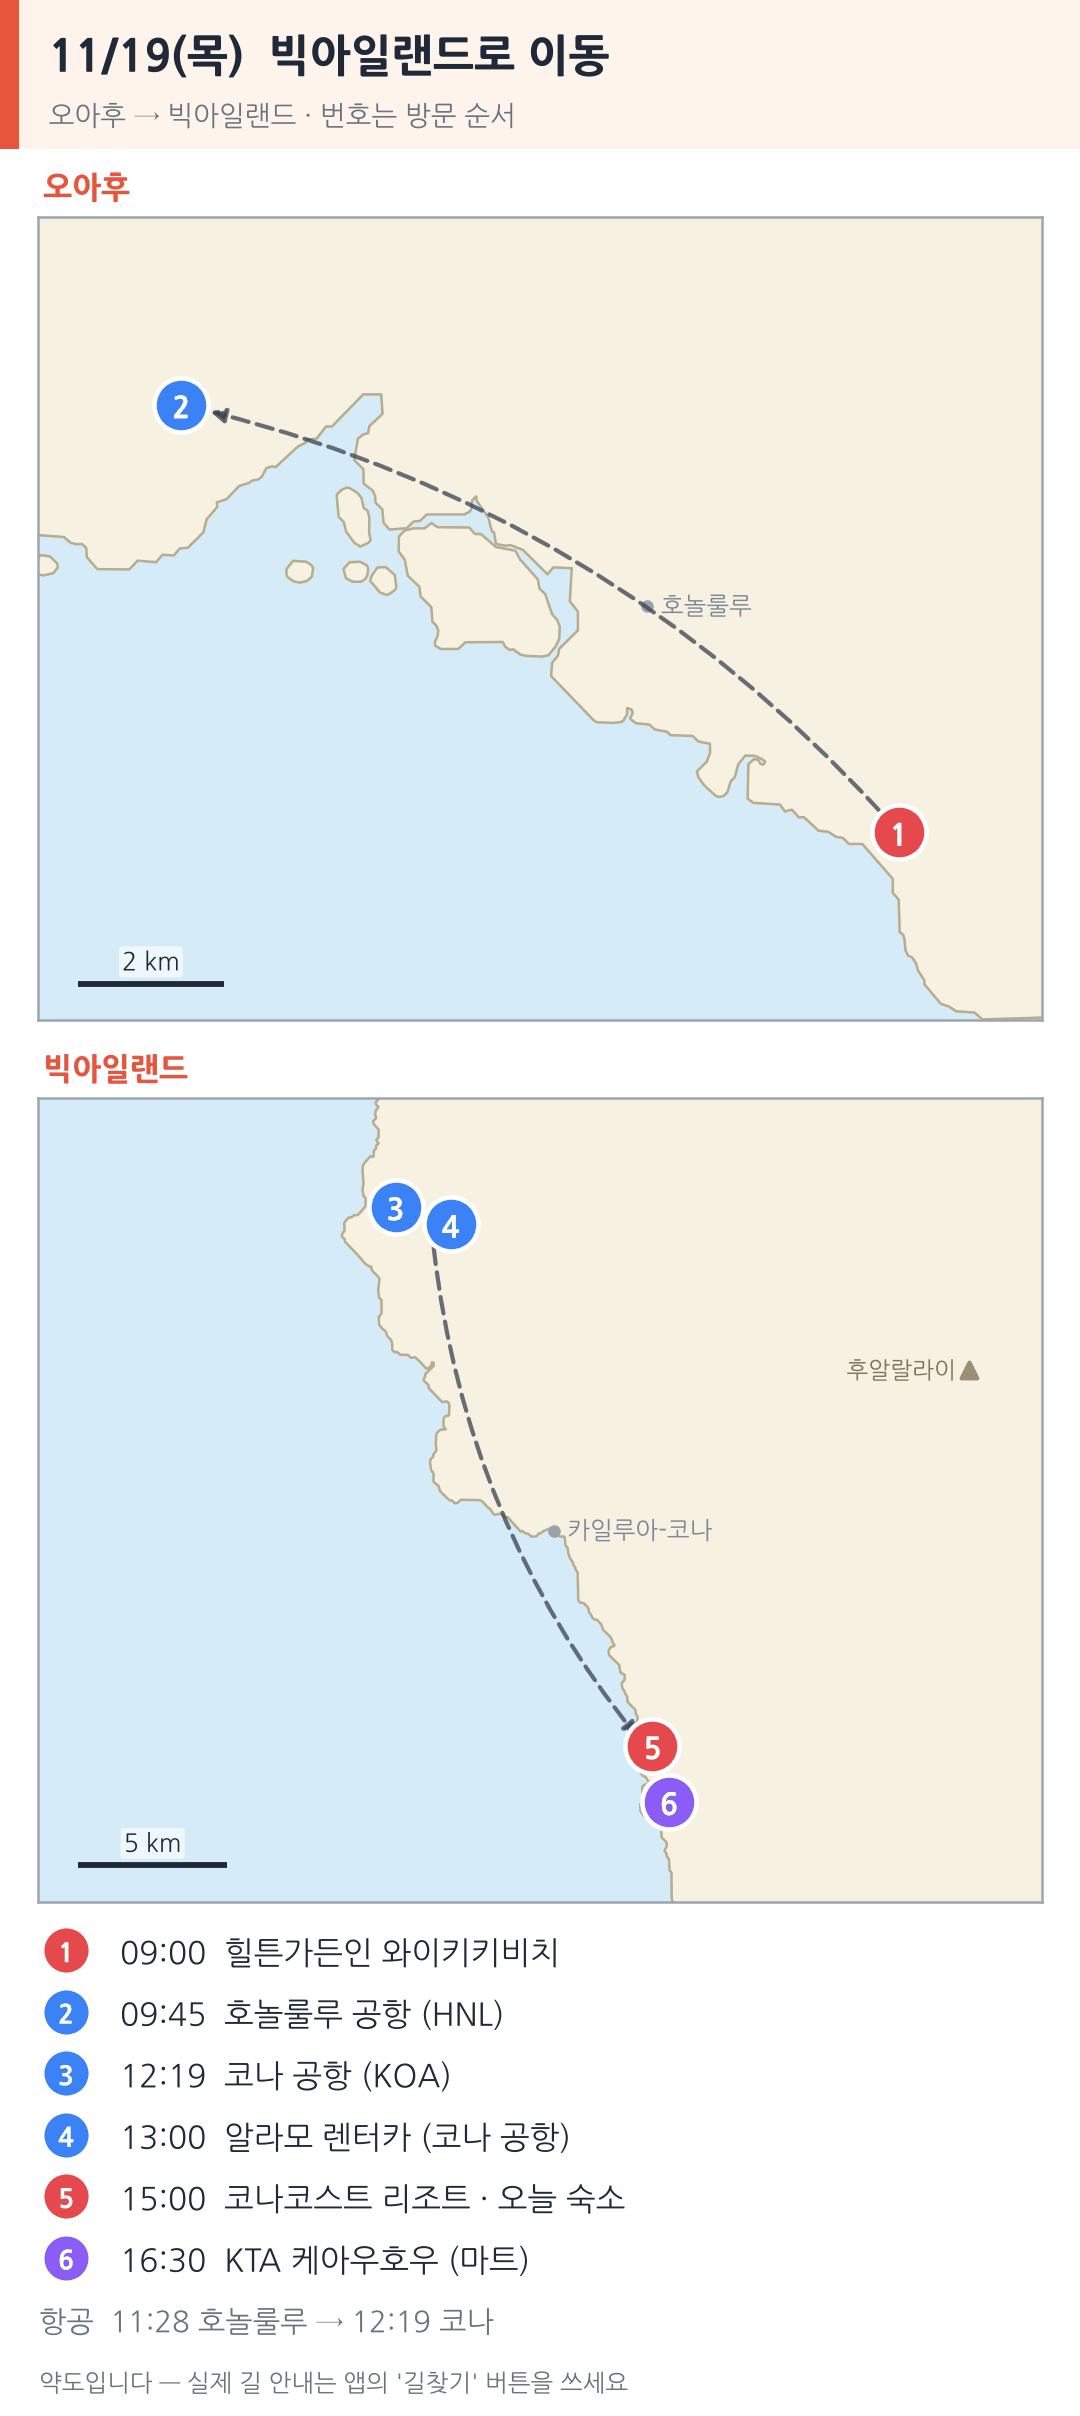
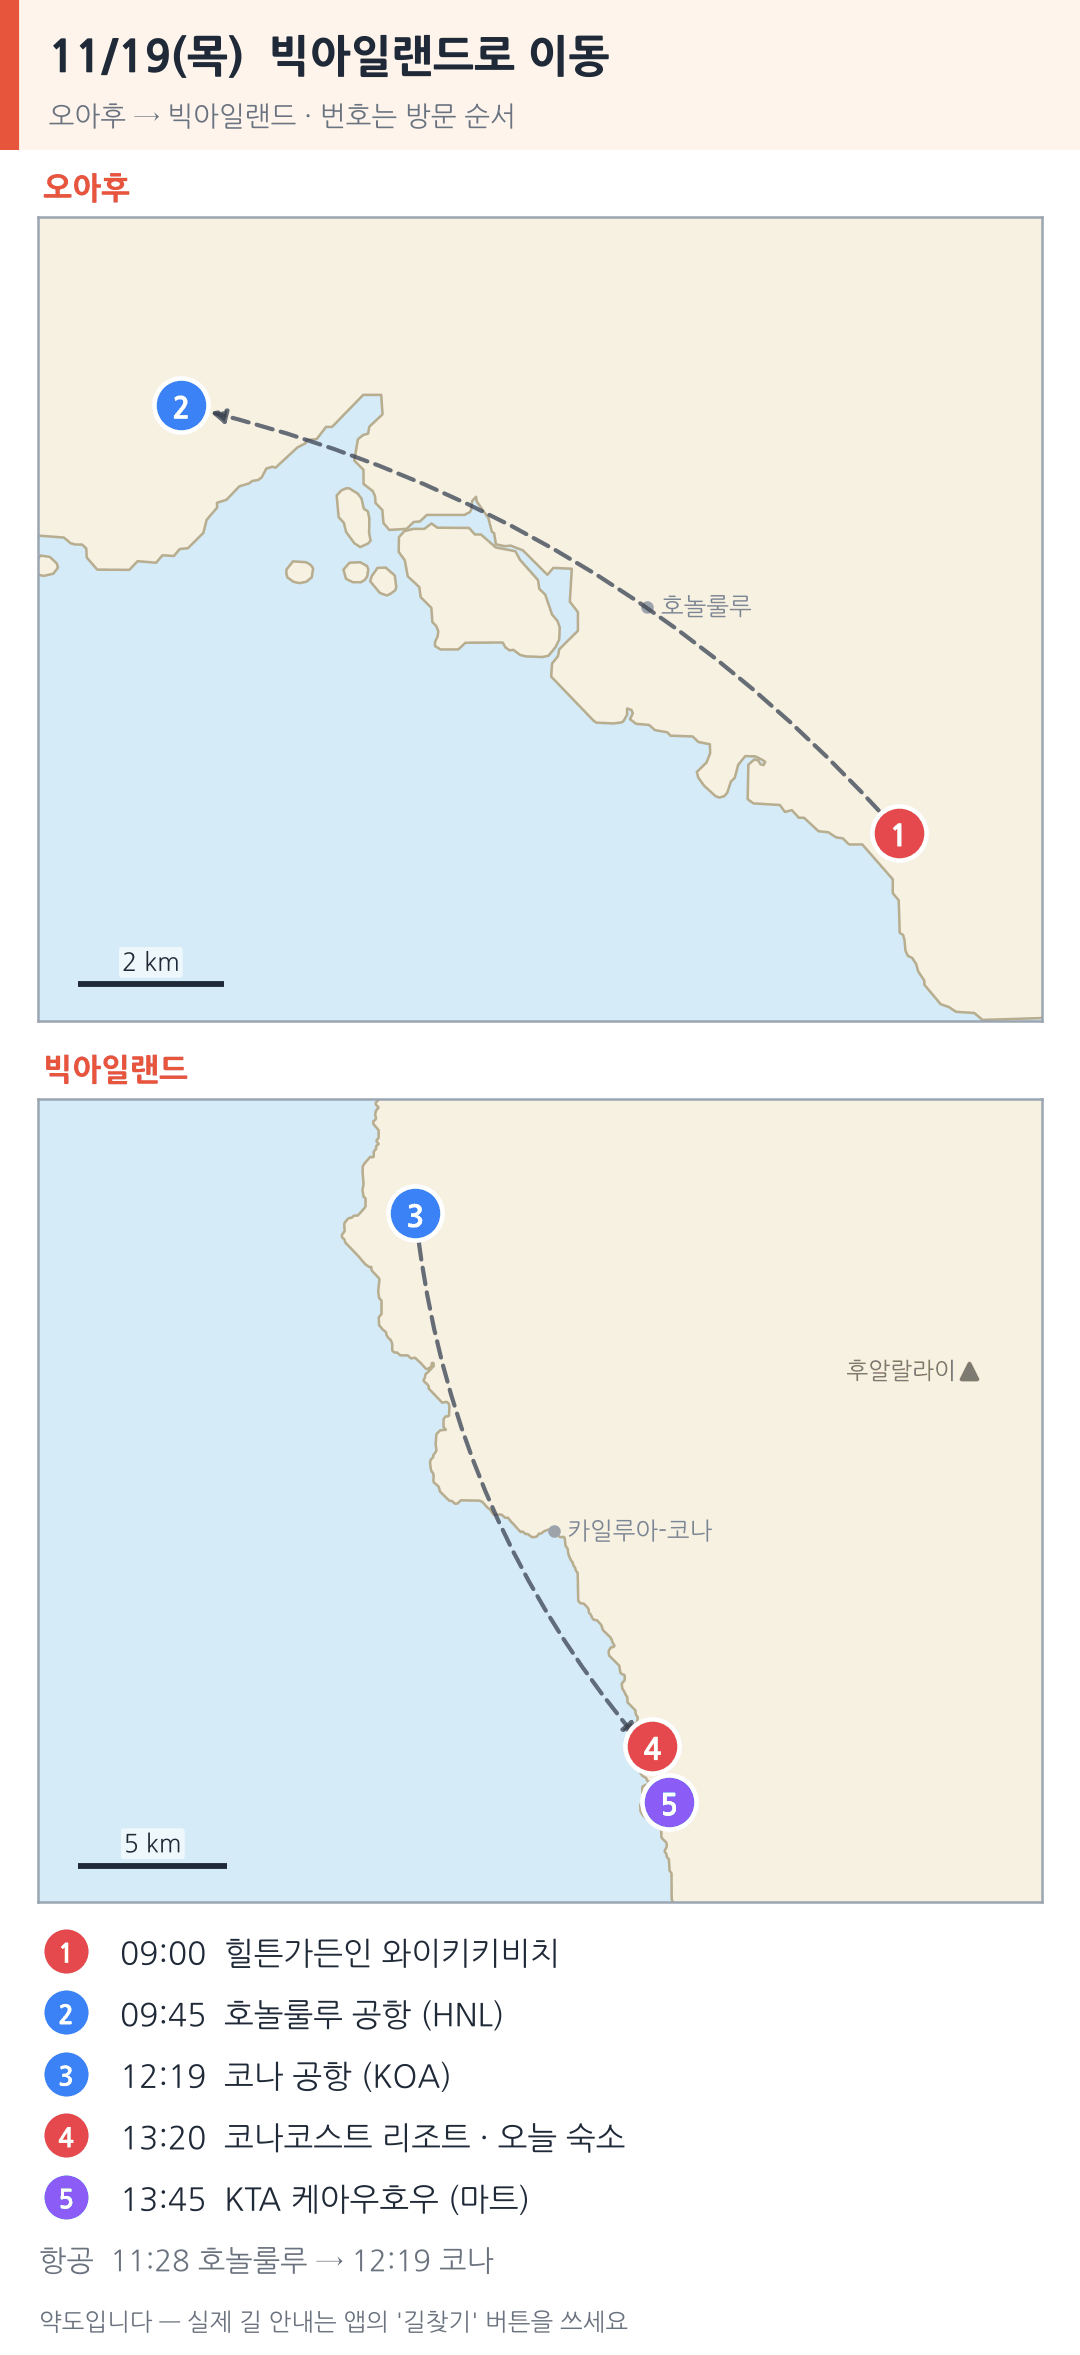
빅아일랜드 일정을 차 없이 다시 짜기 (택시·우버 + 투어 픽업)
- 11/19 알라모 대신 코나 공항→리조트 택시·우버, 짐 맡기고 KTA 걸어서
- 11/20 한인 가이드 화산 투어 (코나 숙소 픽업)로 바꿈
- 11/21 오전 카할루우 비치 · 오후 마우나케아 투어 픽업
- 11/23·11/25 숙소 이동과 공항 가는 길을 택시·우버로
- 할 일: 알라모 취소, 투어 예약 2건, (선택) 면허증 특송
- 카할루우 비치 장소 추가 (좌표 추정), 지도 다시 만듦

Claude-Session: https://claude.ai/code/session_01TtVcSoKscqhBRvKoZFYa3E

diff --git a/sw.js b/sw.js
@@ -3,7 +3,7 @@
 // (파일을 고친 뒤 `node tools/build-precache.mjs` 를 실행하면 버전과 목록이 바뀐다 — 직접 고치지 말 것).
 
 /* PRECACHE:BEGIN */
-const VERSION = '2256-0b0b';
+const VERSION = 'd3e8-72cf';
 const FILES = [
   ['index.html', '37595f72'],
   ['manifest.webmanifest', '433937d9'],
@@ -39,15 +39,15 @@ const FILES = [
   ['js/wallet.js', '6127bc56'],
   ['js/weather.js', 'f8590ea6'],
   ['vendor/qrcode.js', 'ea91d711'],
-  ['data/checklists.json', 'bac118ba'],
+  ['data/checklists.json', 'b1ca9f2d'],
   ['data/eats.json', '0616e132'],
-  ['data/ideas.json', '0dcbbbb6'],
-  ['data/maps.json', '895cd8c4'],
+  ['data/ideas.json', '9835fec8'],
+  ['data/maps.json', '7062a9cd'],
   ['data/photos.json', '203050d9'],
   ['data/phrases.json', '222339e8'],
   ['data/secret.enc', 'b6362c2a'],
   ['data/transit.json', 'a4f530fd'],
-  ['data/trip.json', '12c27643'],
+  ['data/trip.json', '9433b054'],
   ['data/videos.json', 'f543b457'],
   ['maps/big-island.png', 'a8e3a173'],
   ['maps/day-1115-wide.png', '89913008'],
@@ -58,20 +58,20 @@ const FILES = [
   ['maps/day-1117.png', '53b02b1b'],
   ['maps/day-1118-wide.png', 'a5baa1ac'],
   ['maps/day-1118.png', 'e329ccf4'],
-  ['maps/day-1119-wide.png', 'c876674b'],
-  ['maps/day-1119.png', 'ca1991b5'],
-  ['maps/day-1120-wide.png', 'f0b202fa'],
-  ['maps/day-1120.png', '9c7b8b62'],
-  ['maps/day-1121-wide.png', '7c48de99'],
-  ['maps/day-1121.png', 'f8a529af'],
+  ['maps/day-1119-wide.png', 'e3b36d48'],
+  ['maps/day-1119.png', '2bab0c9a'],
+  ['maps/day-1120-wide.png', 'fce9b3f9'],
+  ['maps/day-1120.png', '331ec4c6'],
+  ['maps/day-1121-wide.png', 'a40edc89'],
+  ['maps/day-1121.png', 'a07f3207'],
   ['maps/day-1122-wide.png', '696d2f62'],
   ['maps/day-1122.png', 'e6af9d03'],
-  ['maps/day-1123-wide.png', 'a4ccef4f'],
-  ['maps/day-1123.png', '7cf7c87c'],
+  ['maps/day-1123-wide.png', '33f08f96'],
+  ['maps/day-1123.png', '307b08ed'],
   ['maps/day-1124-wide.png', '6c2d0f33'],
   ['maps/day-1124.png', '22346d4e'],
-  ['maps/day-1125-wide.png', 'cca506d7'],
-  ['maps/day-1125.png', '02ebc83a'],
+  ['maps/day-1125-wide.png', '2952c95e'],
+  ['maps/day-1125.png', '97b32f96'],
   ['maps/day-1126-wide.png', 'c6447822'],
   ['maps/day-1126.png', 'ff2c2622'],
   ['maps/day-1127-wide.png', '6a1799ce'],
